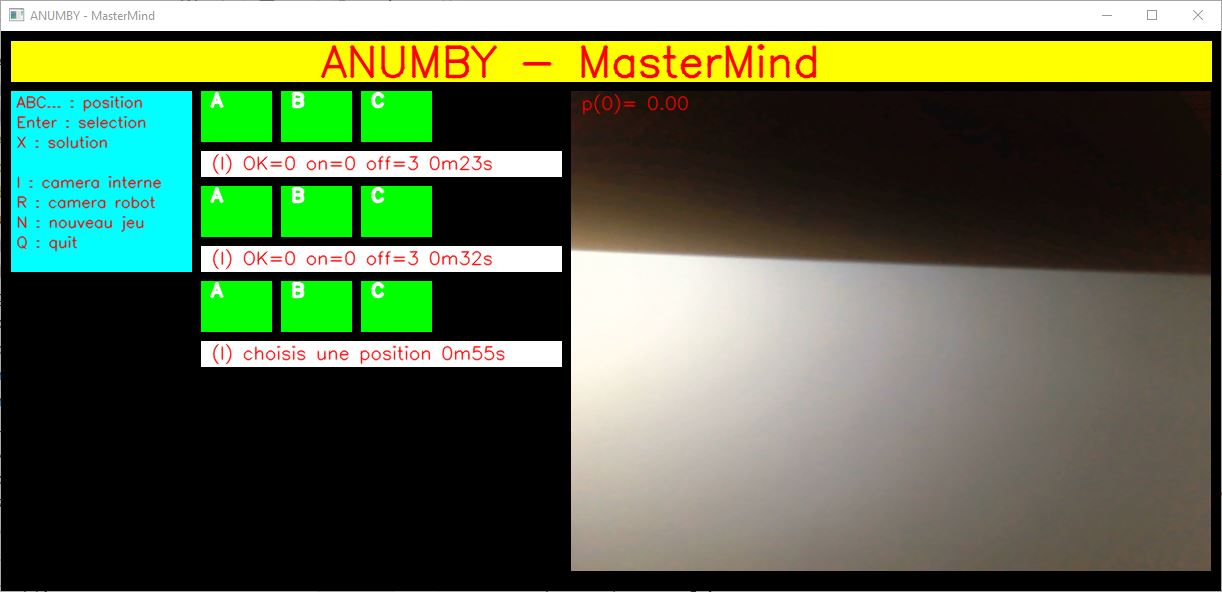
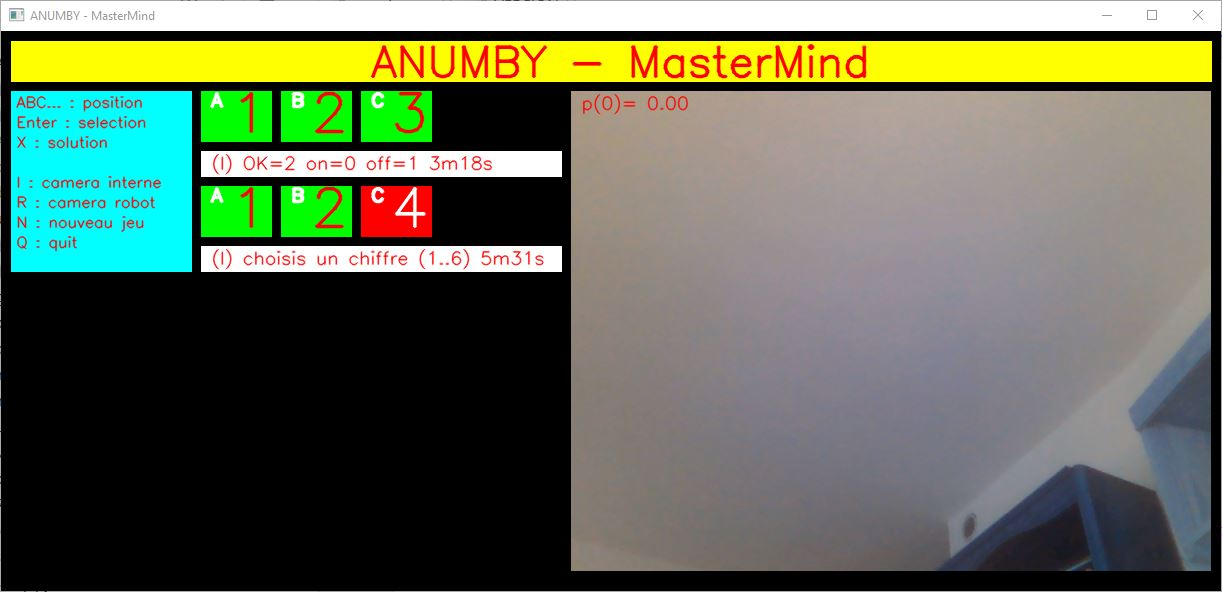
Ajoute une limite sur le nombre d'essais

diff --git a/AnumbyMasterMind/__main__.py b/AnumbyMasterMind/__main__.py
@@ -9,10 +9,12 @@ import socket
 
 N = 6
 P = 3
+max_lignes = 8
 
 internal_mode = 0
 robot_mode = 1
 mode_camera = internal_mode
+
 
 # camera
 image_w  = 96   # largeur image camera
@@ -371,7 +373,15 @@ class MastermindCV:
 
             self.image[y1:y1 + self.ocr.height, x1:x1 + self.ocr.width] = self.frame
 
-            text = "p({})={:5.2f}".format(str(self.chiffre), self.proba)
+            if self.chiffre == 0:
+                text = "aucune detection"
+            else:
+                text = "p({})={:5.2f}".format(str(self.chiffre), self.proba)
+
+                if not self.box is None:
+                    (px1, py1) = self.box[0]
+                    (px2, py2) = self.box[2]
+                    cv2.rectangle(self.image, (px1 + x1, py1 + y1), (px2 + x1, py2 + y1), red, 1)
 
             cv2.putText(self.image,
                         text=text,
@@ -382,11 +392,6 @@ class MastermindCV:
                         thickness=1,
                         lineType=cv2.LINE_AA)
 
-            if not self.box is None:
-                (px1, py1) = self.box[0]
-                (px2, py2) = self.box[2]
-
-                cv2.rectangle(self.image, (px1 + x1, py1 + y1), (px2 + x1, py2 + y1), red, 1)
 
 
 
@@ -443,6 +448,11 @@ class MastermindCV:
 
         self.draw_ihm(jeu.position)
 
+        if self.lignes >= max_lignes:
+            jeu.info = "Perdu! trop d'essais"
+            self.draw_ihm(jeu.position)
+            return
+
         if jeu.position == -1:
             jeu.info = f"choisis une position"
         else:
@@ -451,26 +461,29 @@ class MastermindCV:
         if result is None:
             jeu.info = f"pas d'image"
             self.draw_ihm(jeu.position)
-        else:
-            condition = ""
-            for (bbox, text, prob) in result:
-                if prob > 0.8 and contains_integer(text):
-                    t = int(text)
-                    if t > 0 and t <= N:
-                        # print("t=", t, "position=", jeu.position, "jeu=", jeu)
-                        if jeu.position >= 0:
-                            if self.valid(t):
-                                jeu.jeu[jeu.position] = t
-                                # print("process_frame. position=", self.position, "jeu=", jeu)
-                                jeu.info = f"chiffre {t} choisi"
-                            else:
-                                jeu.info = f"doublons interdits ({t})"
-                        self.proba = prob
-                        self.chiffre = t
-                        self.box = bbox
-                        self.draw_ihm(jeu.position)
+            return
 
-                    break
+        self.proba = 0
+        self.chiffre = 0
+        self.box = None
+        for (bbox, text, prob) in result:
+            if prob > 0.8 and contains_integer(text):
+                t = int(text)
+                if t > 0 and t <= N:
+                    # print("t=", t, "position=", jeu.position, "jeu=", jeu)
+                    if jeu.position >= 0:
+                        if self.valid(t):
+                            jeu.jeu[jeu.position] = t
+                            # print("process_frame. position=", self.position, "jeu=", jeu)
+                            jeu.info = f"chiffre {t} choisi"
+                            self.proba = prob
+                            self.chiffre = t
+                            self.box = bbox
+                        else:
+                            jeu.info = f"doublons interdits ({t})"
+                break
+
+        self.draw_ihm(jeu.position)
 
     def run(self):
         global mode_camera
@@ -522,10 +535,14 @@ class MastermindCV:
                 ok = self.result()
                 if not ok:
                     old = self.jeu_courant()
-                    self.lignes += 1
-                    self.jeux.append(Jeu())
-                    jeu = self.jeu_courant()
-                    jeu.jeu = [k for k in old.jeu]
+                    if self.lignes >= max_lignes:
+                        old.info = "Perdu! trop d'essais"
+                    else:
+                        self.lignes += 1
+                        self.jeux.append(Jeu())
+                        jeu = self.jeu_courant()
+                        jeu.jeu = [k for k in old.jeu]
+
                     self.draw_ihm()
 
         cv2.destroyAllWindows()
